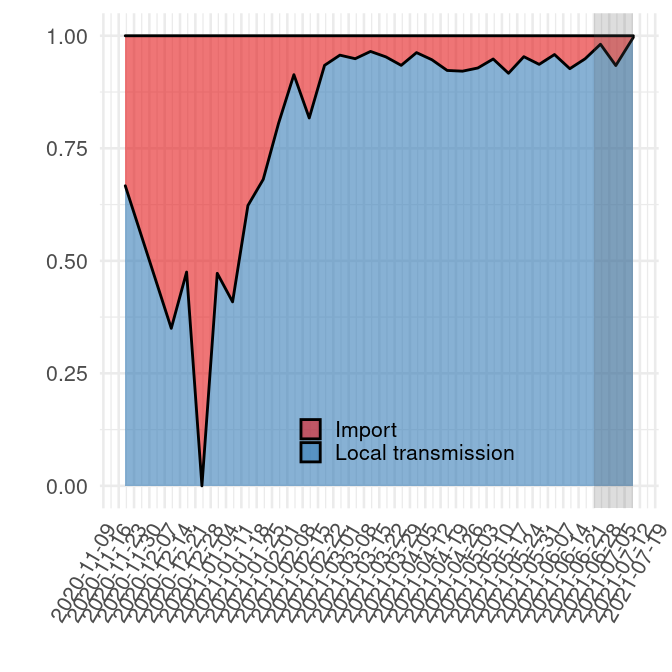
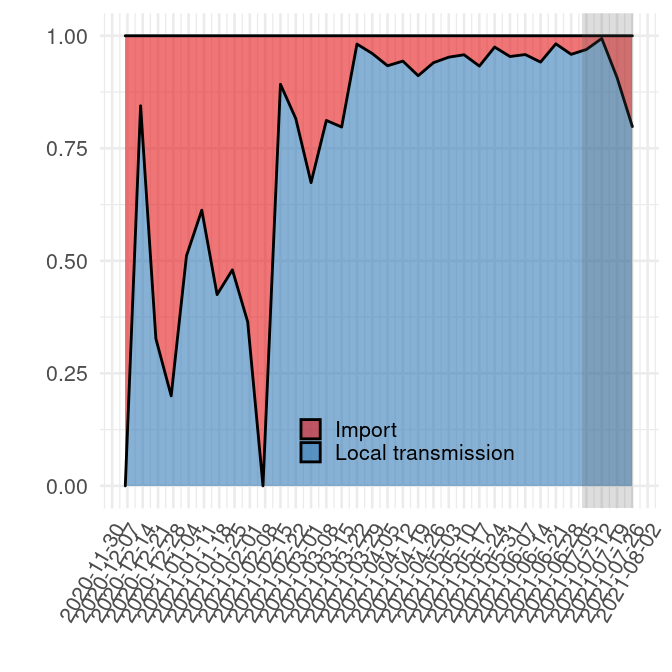
updated with data from 2021-08-08

Changed region(s): [[0.1875, 0.0, 0.9688, 0.75], [0.0625, 0.7812, 1.0, 0.9375]]

diff --git a/UK_results.md b/UK_results.md
@@ -1,6 +1,6 @@
 Results - B.1.1.7, “Alpha variant”
 ================
-02/08/2021
+16/08/2021
 
 Phylogeographic mapping
 
@@ -29,9 +29,9 @@ lineage and TMRCA denotes the age of the lineage.
 
 |                    |      2.5% |       50% |     97.5% |
 |:-------------------|----------:|----------:|----------:|
-| Import             |  277.0000 |  281.0000 |  286.5500 |
-| Local transmission | 3736.4500 | 3742.0000 | 3746.0000 |
-| Import / Total     |    0.0689 |    0.0698 |    0.0712 |
+| Import             |  232.2250 |  236.0000 |  242.3250 |
+| Local transmission | 3651.6750 | 3658.0000 | 3661.7750 |
+| Import / Total     |    0.0596 |    0.0606 |    0.0622 |
 
 Next, we estimate the fraction of introductions relative to local
 transmission over time. In these and subsequent analyses it is important

diff --git a/alpha_vs_delta.md b/alpha_vs_delta.md
@@ -1,6 +1,6 @@
 Comparative varianttransmissibility: Alpha vs Delta
 ================
-02/08/2021
+08/08/2021
 
 In these analyses we compare B.1.1.7 (alpha variant) with B.1.617.2
 (delta variant) in terms of lineage sizes in Norway. Each inferred
